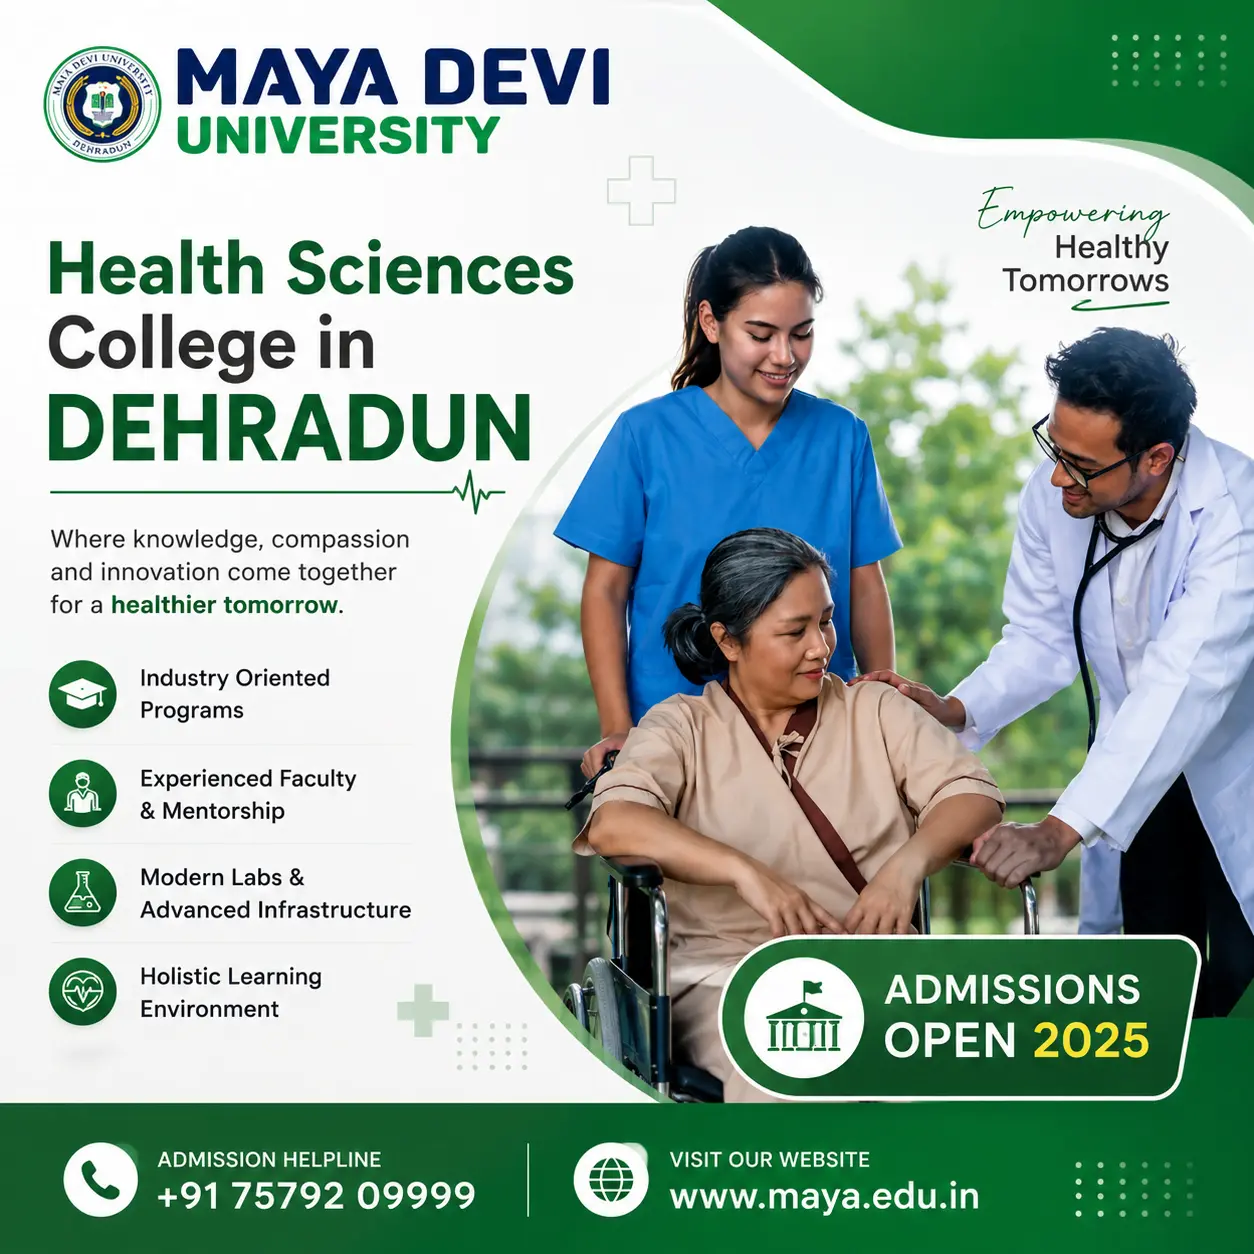
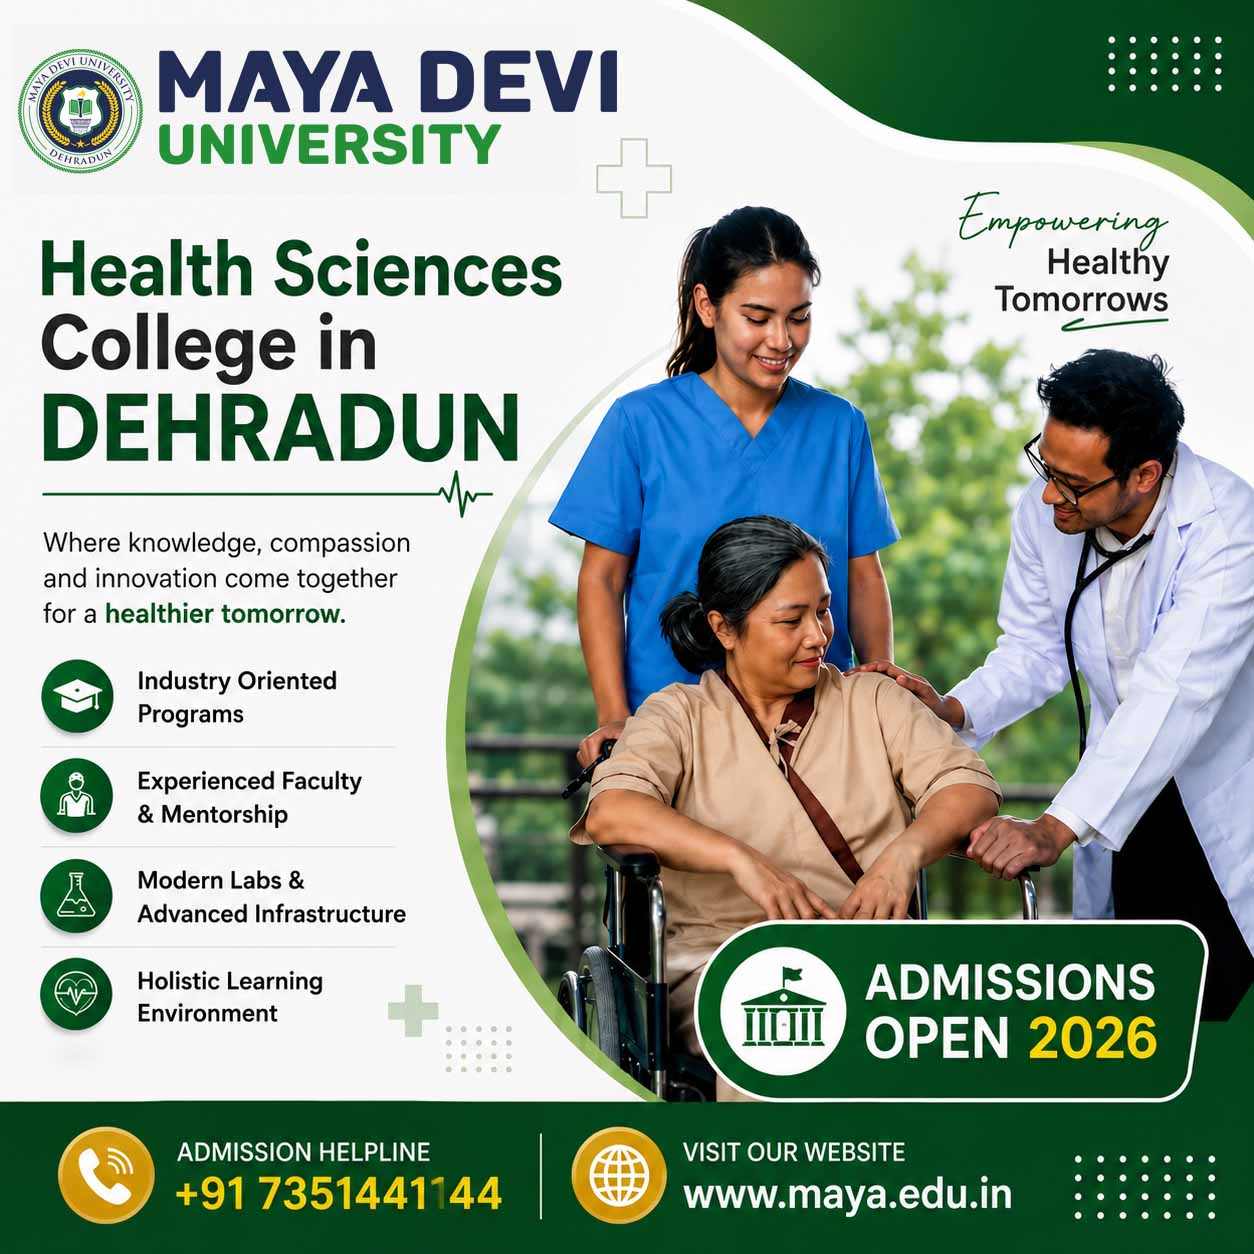
diploma course removed

diff --git a/assets/js/utm-tracker.js b/assets/js/utm-tracker.js
@@ -1,0 +1,246 @@
+/**
+ * UTM Parameter & Source Tracker for Maya Devi University
+ * Automatically captures UTM parameters from URL, referrer, or defaults to "website".
+ * Persists in sessionStorage, localStorage, and cookies.
+ * Synchronizes browser location bar (history.replaceState) and populates all form inputs/widgets.
+ */
+(function() {
+    'use strict';
+
+    if (window.UTM_TRACKER_INITIALIZED) {
+        return;
+    }
+    window.UTM_TRACKER_INITIALIZED = true;
+
+    var UTM_KEYS = ['utm_source', 'utm_medium', 'utm_campaign', 'utm_term', 'utm_content', 'gclid', 'fbclid', 'msclkid'];
+    var DEFAULT_SOURCE = 'website';
+    var DEFAULT_MEDIUM = 'referral';
+    var DEFAULT_CAMPAIGN = 'website_direct';
+
+    function getCookie(name) {
+        var match = document.cookie.match(new RegExp('(?:^|; )' + name + '=([^;]*)'));
+        return match ? decodeURIComponent(match[1]) : null;
+    }
+
+    function setCookie(name, value, days) {
+        days = days || 30;
+        var date = new Date();
+        date.setTime(date.getTime() + (days * 24 * 60 * 60 * 1000));
+        document.cookie = name + '=' + encodeURIComponent(value) + '; path=/; expires=' + date.toUTCString() + '; SameSite=Lax';
+    }
+
+    function getStoredParam(key) {
+        try {
+            return sessionStorage.getItem(key) || localStorage.getItem(key) || getCookie(key);
+        } catch (e) {
+            return getCookie(key);
+        }
+    }
+
+    function storeParam(key, value) {
+        if (!value) return;
+        try {
+            sessionStorage.setItem(key, value);
+            localStorage.setItem(key, value);
+        } catch (e) {}
+        setCookie(key, value, 30);
+    }
+
+    function getUrlParams() {
+        var params = {};
+        var search = window.location.search;
+        if (!search) return params;
+        var pair;
+        var query = search.substring(1).split('&');
+        for (var i = 0; i < query.length; i++) {
+            pair = query[i].split('=');
+            if (pair[0]) {
+                params[decodeURIComponent(pair[0]).toLowerCase()] = decodeURIComponent(pair[1] || '');
+            }
+        }
+        return params;
+    }
+
+    // 1. Capture or Initialize UTM parameters
+    var urlParams = getUrlParams();
+    var utmValues = {};
+
+    if (urlParams['utm_source']) {
+        // User arrived with explicit utm_source in URL
+        UTM_KEYS.forEach(function(key) {
+            if (urlParams[key]) {
+                utmValues[key] = urlParams[key];
+                storeParam(key, urlParams[key]);
+            }
+        });
+    } else {
+        // Check for stored values from earlier in session
+        UTM_KEYS.forEach(function(key) {
+            var val = getStoredParam(key);
+            if (val) utmValues[key] = val;
+        });
+
+        // If no utm_source stored, determine default source (organic referrer vs direct website visit)
+        if (!utmValues['utm_source']) {
+            var ref = document.referrer;
+            if (ref) {
+                try {
+                    var refHost = new URL(ref).hostname.toLowerCase();
+                    var currentHost = window.location.hostname.toLowerCase();
+                    if (refHost !== currentHost) {
+                        if (/google|bing|yahoo|duckduckgo|baidu|yandex|ecosia/i.test(refHost)) {
+                            utmValues['utm_source'] = 'Organic';
+                            utmValues['utm_medium'] = 'organic';
+                            utmValues['utm_campaign'] = refHost;
+                        } else {
+                            utmValues['utm_source'] = 'Referral';
+                            utmValues['utm_medium'] = 'referral';
+                            utmValues['utm_campaign'] = refHost;
+                        }
+                    }
+                } catch(e) {}
+            }
+
+            if (!utmValues['utm_source']) {
+                utmValues['utm_source'] = DEFAULT_SOURCE;
+                utmValues['utm_medium'] = DEFAULT_MEDIUM;
+                utmValues['utm_campaign'] = DEFAULT_CAMPAIGN;
+            }
+
+            // Persist the default source
+            Object.keys(utmValues).forEach(function(key) {
+                storeParam(key, utmValues[key]);
+            });
+        }
+    }
+
+    // Expose globally
+    window.UTM_PARAMS = utmValues;
+    window.utm_source = utmValues['utm_source'];
+
+    // 2. Ensure window.location.search has utm_source using replaceState
+    try {
+        if (history.replaceState && !urlParams['utm_source']) {
+            var currentUrl = new URL(window.location.href);
+            Object.keys(utmValues).forEach(function(key) {
+                if (!currentUrl.searchParams.has(key)) {
+                    currentUrl.searchParams.set(key, utmValues[key]);
+                }
+            });
+            history.replaceState(null, '', currentUrl.toString());
+        }
+    } catch(e) {}
+
+    // 3. Inject UTM parameters into all forms, inputs, and script widgets
+    function injectUtmToForms() {
+        var currentSource = utmValues['utm_source'] || getStoredParam('utm_source') || DEFAULT_SOURCE;
+
+        // Populate standard HTML forms
+        var forms = document.querySelectorAll('form');
+        forms.forEach(function(form) {
+            UTM_KEYS.forEach(function(key) {
+                var val = utmValues[key] || getStoredParam(key);
+                if (!val) return;
+
+                var fieldNames = [key];
+                if (key === 'utm_source') {
+                    fieldNames = ['utm_source', 'source', 'lead_source', 'src', 'utm_src', 'field_utm_source', 'mx_UTM_Source', 'Raw_UTM_Source', 'ee_utm_source'];
+                }
+
+                var matchedInput = false;
+                fieldNames.forEach(function(name) {
+                    var input = form.querySelector('input[name="' + name + '"], input[id="' + name + '"], select[name="' + name + '"]');
+                    if (input) {
+                        input.value = val;
+                        matchedInput = true;
+                    }
+                });
+
+                // If no existing input matched for key, create hidden input for main key
+                if (!matchedInput && key === 'utm_source') {
+                    var hidden = document.createElement('input');
+                    hidden.type = 'hidden';
+                    hidden.name = 'utm_source';
+                    hidden.value = val;
+                    form.appendChild(hidden);
+                }
+            });
+        });
+
+        // ExtraaEdge / Dynamic form widget integration
+        var eeContainers = document.querySelectorAll('#ee-form-2, .ee-form-widget, .hf-body');
+        eeContainers.forEach(function(container) {
+            var inputs = container.querySelectorAll('input, select');
+            inputs.forEach(function(inp) {
+                var attrName = (inp.getAttribute('name') || inp.getAttribute('id') || inp.getAttribute('placeholder') || '').toLowerCase();
+                if (attrName.indexOf('utm_source') !== -1 || attrName.indexOf('source') !== -1) {
+                    inp.value = currentSource;
+                }
+            });
+        });
+
+        // Set global variables used by widget scripts if any
+        window.ee_utm_source = currentSource;
+        window.ee_utm = currentSource;
+
+        // Update embedded iframe src attributes if needed
+        var iframes = document.querySelectorAll('iframe');
+        iframes.forEach(function(iframe) {
+            try {
+                var src = iframe.getAttribute('src');
+                if (src && src.indexOf('http') === 0 && src.indexOf('utm_source=') === -1) {
+                    var delimiter = src.indexOf('?') !== -1 ? '&' : '?';
+                    iframe.src = src + delimiter + 'utm_source=' + encodeURIComponent(currentSource);
+                }
+            } catch(e) {}
+        });
+    }
+
+    // 4. Preserve UTM parameters on internal anchor link clicks
+    function preserveUtmOnLinks() {
+        document.addEventListener('click', function(e) {
+            var anchor = e.target.closest('a');
+            if (!anchor) return;
+            var href = anchor.getAttribute('href');
+            if (!href || href.startsWith('#') || href.startsWith('javascript:') || href.startsWith('tel:') || href.startsWith('mailto:')) return;
+            try {
+                var targetUrl = new URL(anchor.href, window.location.origin);
+                if (targetUrl.hostname === window.location.hostname) {
+                    if (!targetUrl.searchParams.has('utm_source')) {
+                        Object.keys(utmValues).forEach(function(key) {
+                            if (utmValues[key]) {
+                                targetUrl.searchParams.set(key, utmValues[key]);
+                            }
+                        });
+                        anchor.href = targetUrl.toString();
+                    }
+                }
+            } catch(e) {}
+        }, true);
+    }
+
+    // Execute setup
+    if (document.readyState === 'loading') {
+        document.addEventListener('DOMContentLoaded', function() {
+            injectUtmToForms();
+            preserveUtmOnLinks();
+        });
+    } else {
+        injectUtmToForms();
+        preserveUtmOnLinks();
+    }
+
+    window.addEventListener('load', injectUtmToForms);
+
+    // Watch for dynamic DOM changes (e.g., popups, ExtraaEdge widget loading)
+    if (window.MutationObserver) {
+        var observer = new MutationObserver(function() {
+            injectUtmToForms();
+        });
+        observer.observe(document.documentElement, { childList: true, subtree: true });
+    }
+
+    // Safety interval check
+    setInterval(injectUtmToForms, 1500);
+
+})();

diff --git a/common/header.php b/common/header.php
@@ -2,6 +2,9 @@
 <html class="no-js" lang="zxx">
 
 <head>
+<!-- UTM Parameter & Source Tracker -->
+<script src="assets/js/utm-tracker.js"></script>
+
 <title><?php echo $page_title ?? "Maya Devi University | Best Private University in Dehradun"; ?></title>
 
 <meta name="viewport" content="width=device-width, initial-scale=1.0">
@@ -244,7 +247,7 @@ $base_url = $protocol . $host . $projectFolder;
                                                 <li><a href="campus-life.php">Campus Life</a></li>
                                                 <li><a href="scholarship.php">Scholarships</a></li>
                                                 <li><a href="assets/uploads/pdf/List_of_Holidays_2026.pdf" download="List_of_Holidays_2025.pdf">List of Holidays</a></li>
-                                                <li><a href="assets/uploads/pdf/Academic-Calender_2025-26.pdf" download="Academic_Calender_Even_Sem_2024-25.pdf">Academic Calendar<br> Even Sem 2024-25</a></li>
+                                                <li><a href="assets/uploads/pdf/Academic-Calender_2026-27.pdf" download="Academic_Calender_Even_Sem_2024-25.pdf">Academic Calendar<br> Even Sem 2024-25</a></li>
                                                 <li><a href="refund-policy.php">Refund Policy</a></li>
                                             </ul>
                                         </li>

diff --git a/common/footer.php b/common/footer.php
@@ -159,7 +159,7 @@
 
     <ul class="panel-list">
       <li><a href="assets/uploads/pdf/MDU_COMBINED_Brochure.pdf" download="MDU_COMBINED_Brochure.pdf">MDU Brochure</a></li>
-      <li><a href="assets/uploads/pdf/MDU_Fee_Structure.pdf" download="MDU_Fee_Structure.pdf">Fee Structure (2025-26)</a></li>
+      <li><a href="assets/uploads/pdf/MDU_Fee_Structure.pdf" download="MDU_Fee_Structure.pdf">Fee Structure (2026-27)</a></li>
       <li><a href="assets/uploads/pdf/List_of_Holidays_2025.pdf" download="List_of_Holidays_2025.pdf">List of Holidays</a></li>
       <li><a href="assets/uploads/pdf/Academic_Calender_Even_Sem_2024-25.pdf" download="Academic_Calender_Even_Sem_2024-25.pdf">Academic Calendar Even Sem 2024-25</a></li>
       <li><a href="refund-policy.php">Refund Policy</a></li>
@@ -996,5 +996,7 @@
 <script src="assets/js/plugins.js" defer></script>
 <!-- Ajax Mail -->
 <script src="assets/js/ajax-mail.js" defer></script>
+<!-- UTM Tracker JS -->
+<script src="assets/js/utm-tracker.js"></script>
 <!-- Main JS -->
 <script src="assets/js/main.js" defer></script>

diff --git a/Diploma-course.php b/Diploma-course.php
@@ -39,15 +39,15 @@ $og_image = "https://maya.edu.in/assets/uploads/campus-2.jpeg";
     </div>
 
     <!-- School 4 -->
-    <div class="school">
+    <!-- <div class="school">
       <h2 class="school-name">School of Paramedical</h2>
       <ul class="courses-list">
         <li><a href="dialysis-technology.php">Diploma in Dialysis</a></li>
       </ul>
-    </div>
+    </div> -->
 
     <!-- School 5 -->
-    <div class="school">
+    <!-- <div class="school">
       <h2 class="school-name">Ashtavakra School of Rehabilitation</h2>
       <ul class="courses-list">
         <li><a href="early-child-special-edu.php">Early child Special Edu. (Hearing Impairment)</a></li>
@@ -56,7 +56,7 @@ $og_image = "https://maya.edu.in/assets/uploads/campus-2.jpeg";
         <li><a href="hearing-language-speech.php">Hearing language & Speech</a></li>
         <li><a href="indian-sign-language.php">Indian Sign Language</a></li>
       </ul>
-    </div>
+    </div> -->
 
   </div>
 </section>

diff --git a/ugc-mandatory-disclosure.php b/ugc-mandatory-disclosure.php
@@ -120,7 +120,7 @@ $og_image = "https://maya.edu.in/assets/uploads/campus-2.jpeg";
         <tr>
           <td>Ombudsperson</td>
           <td>
-          Name: Mr. Sarvesh Mittal | Email: lokpal@maya.edu.in | Profile:
+          Name: Prof. Dr. Ajeet Kumar Karnatak | Email: lokpal@mdu.edu.in | Profile:
             <a href="ombudsperson.php" target="_blank">https://maya.edu.in/Ombudsperson</a>
           </td>
         </tr>
@@ -316,7 +316,7 @@ $og_image = "https://maya.edu.in/assets/uploads/campus-2.jpeg";
         <tr>
         <td>Details of Student Grievance Redressal Committee (SGRC) and Ombudsperson</td>
           <td>
-          <a href="" target="_blank">/about-us/offices-services/Name: Mr. Sarvesh Mittal Email: lokpal@maya.edu.in Mobile:7017145280</a>
+          <a href="" target="_blank">/about-us/offices-services/Name: Prof. Dr. Ajeet Kumar Karnatak Email: lokpal@mdu.edu.in </a>
           </td>
         </tr>
         <tr>

diff --git a/test-2.php b/test-2.php
@@ -756,7 +756,7 @@ $latestBlogs = array_slice(array_reverse($filteredBlogs, true), 0, 10, true);
   <div class="shs-cta-inner">
     <div class="shs-reveal rl">
       <h2>Ready to Shape Your Future?</h2>
-      <p>Join thousands of students who've launched transformative careers through MDU's industry-aligned Health Sciences programs. Applications are open for 2025–26.</p>
+      <p>Join thousands of students who've launched transformative careers through MDU's industry-aligned Health Sciences programs. Applications are open for 2026-27.</p>
     </div>
     <a href="https://admissions.maya.edu.in" class="shs-btn-white shs-reveal rr">Apply Now →</a>
   </div>

diff --git a/management-and-commerce.php b/management-and-commerce.php
@@ -1850,7 +1850,7 @@ section { position: relative; z-index: 1; }
   <div class="cta-inner">
     <div class="cta-text reveal-left">
       <h2>Ready to Shape Your Future?</h2>
-      <p>Join thousands of students who've launched transformative careers through MDU's industry-aligned Commerce &amp; Management programs. Applications are open for 2025–26.</p>
+      <p>Join thousands of students who've launched transformative careers through MDU's industry-aligned Commerce &amp; Management programs. Applications are open for 2026-27.</p>
     </div>
     <a href="https://admissions.maya.edu.in" class="btn-white reveal-right">Apply Now →</a>
   </div>

diff --git a/School-Of-Health-Sciences.php b/School-Of-Health-Sciences.php
@@ -913,7 +913,7 @@ html { scroll-behavior: smooth; }
   <div class="shs-cta-inner">
     <div class="shs-reveal rl">
       <h2>Ready to Shape Your Future?</h2>
-      <p>Join thousands of students who've launched transformative careers through MDU's industry-aligned Health Sciences programs. Applications are open for 2025–26.</p>
+      <p>Join thousands of students who've launched transformative careers through MDU's industry-aligned Health Sciences programs. Applications are open for 2026-27.</p>
     </div>
     <a href="https://admissions.maya.edu.in" class="shs-btn-white shs-reveal rr">Apply Now →</a>
   </div>

diff --git a/best-computer-engineering-college-in-dehradun-uttarakhand.php b/best-computer-engineering-college-in-dehradun-uttarakhand.php
@@ -1436,7 +1436,7 @@ SCHEMA;
   <div class="cta-inner">
     <div class="cta-text reveal-left">
       <h2>Ready to Shape Your Future?</h2>
-      <p>Join thousands of students who've launched transformative careers through MDU's industry-aligned programs. Applications are open for 2025–26.</p>
+      <p>Join thousands of students who've launched transformative careers through MDU's industry-aligned programs. Applications are open for 2026-27.</p>
     </div>
     <a href="https://admissions.maya.edu.in" class="btn-white reveal-right">Apply Now →</a>
   </div>

diff --git a/Arts-and-humanities.php b/Arts-and-humanities.php
@@ -2421,7 +2421,7 @@ SCHEMA;
       <div class="cta-text reveal-left">
         <h2>Ready to Start Your Journey?</h2>
         <p>Join the next generation of creative thinkers and social leaders at Maya Devi University. Applications are
-          open for 2025–26.</p>
+          open for 2026–27.</p>
       </div>
       <a href="https://admissions.maya.edu.in" class="btn-white reveal-right">Apply Now →</a>
     </div>

diff --git a/index.php b/index.php
@@ -2,6 +2,9 @@
 <html lang="en">
 
 <head>
+    <!-- UTM Parameter & Source Tracker -->
+    <script src="assets/js/utm-tracker.js"></script>
+
     <link rel="icon" type="image/webp" href="assets/uploads/logo/favicon-CqYW0pAm.ico">
 
     <title>Best Private University in Dehradun | Maya Devi University</title>
